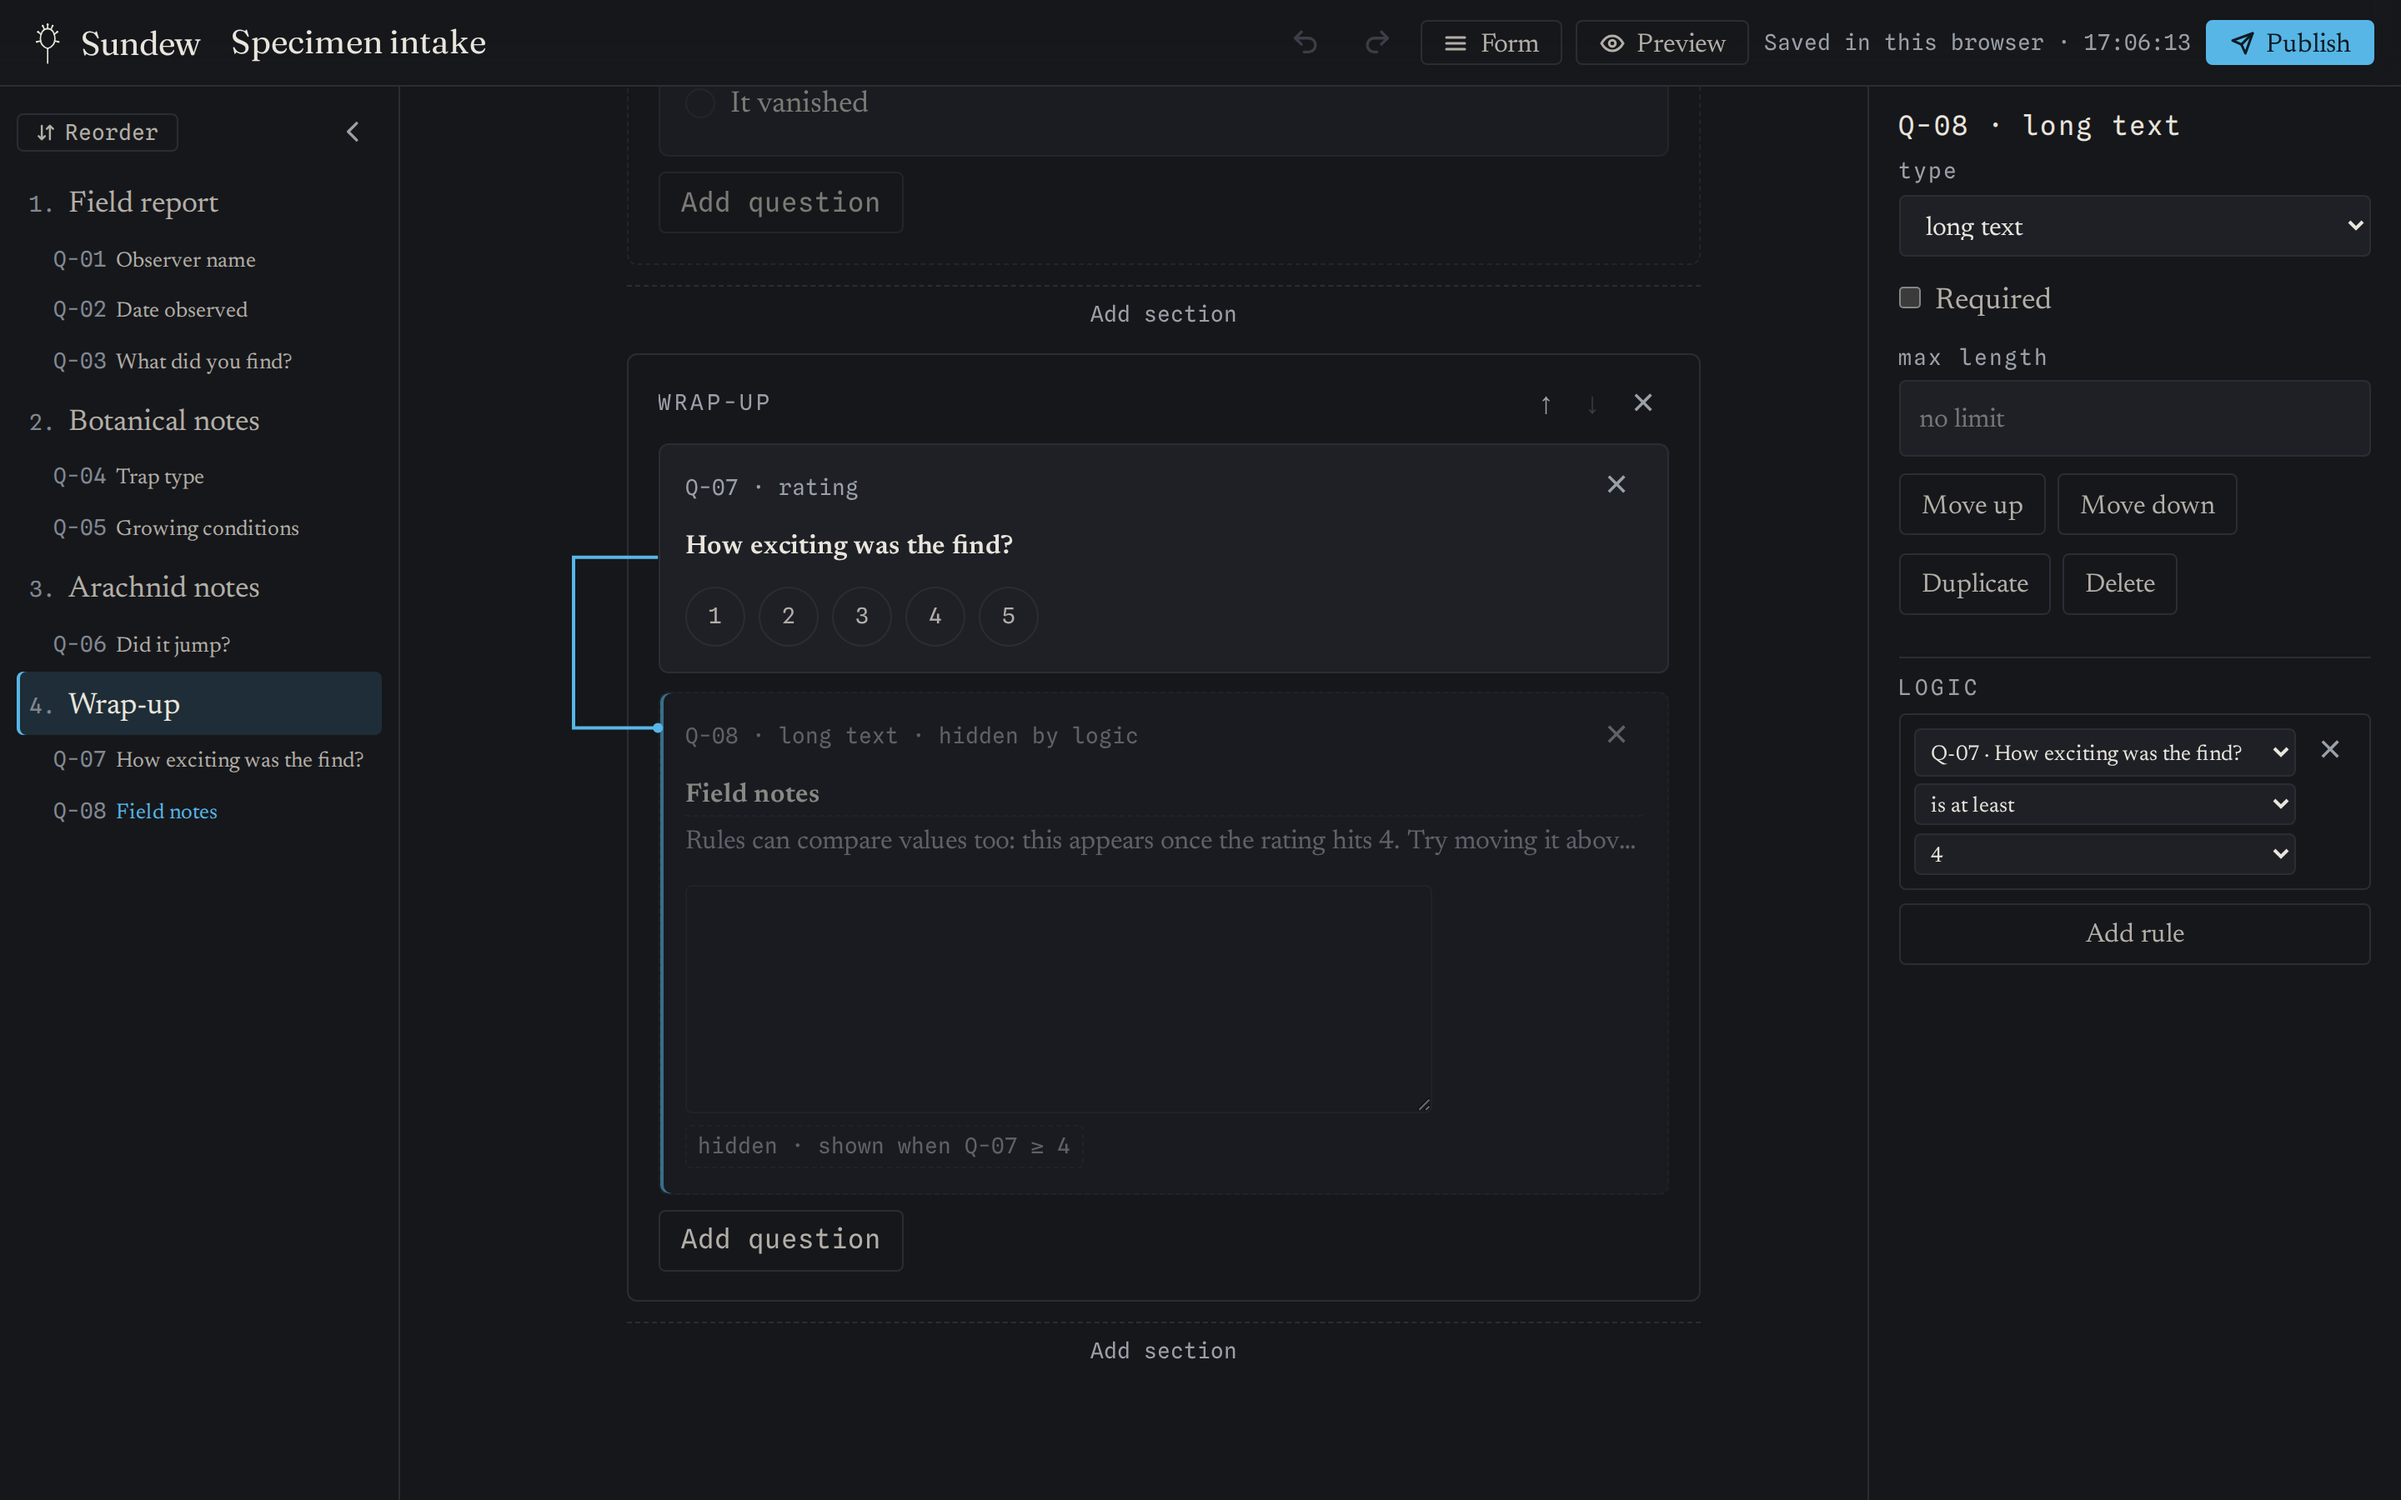
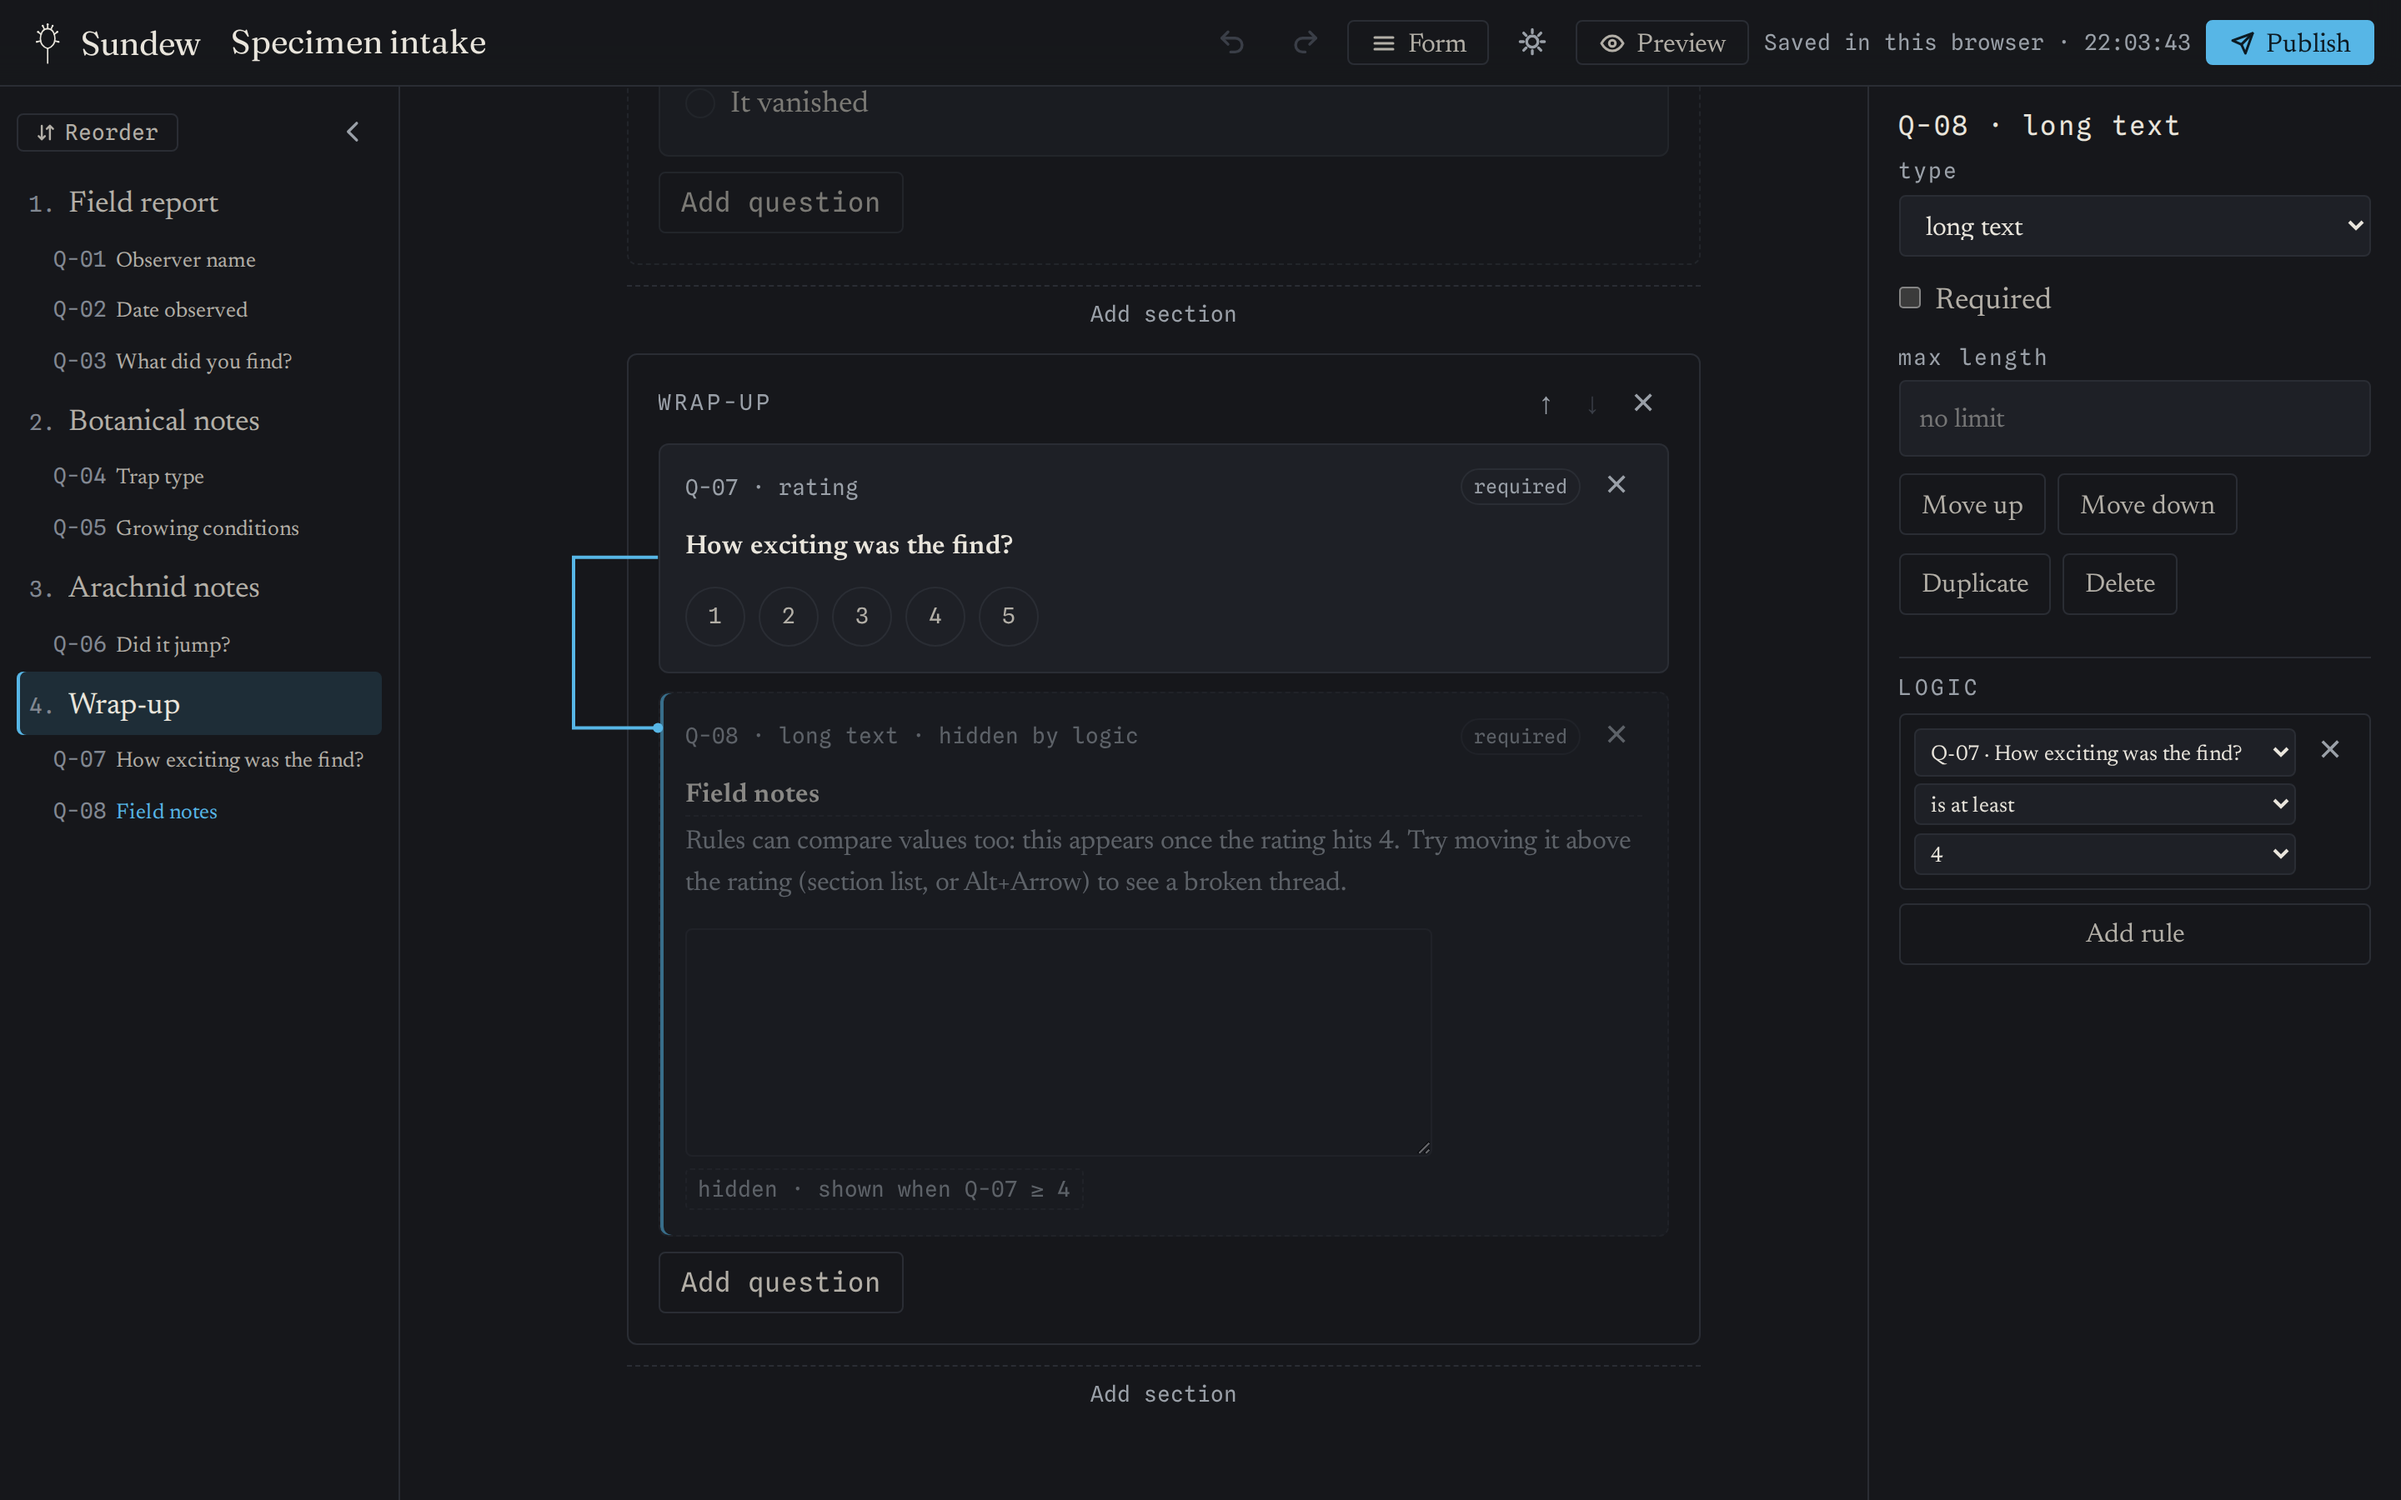
README: what's-in-the-box list, theme toggle reality, fresh screenshots

diff --git a/README.md b/README.md
@@ -14,6 +14,24 @@ running is in here.
 
 ![A published form on its share link: outline rail, conditional sections revealed as you answer](docs/fill.png)
 
+## What's in the box
+
+- **Builder** · drag-and-drop canvas that doubles as the live preview, undo/redo,
+  insert-a-question-anywhere dividers, duplicate form, a template gallery of four
+  starting points, and a keyboard-shortcut sheet on `?`.
+- **Logic** · answer choices reveal later questions and whole sections; one evaluator
+  runs in the builder preview, the fill page, and the server's submit validation.
+- **Validation** · required, number bounds, choice-count limits, placeholders, rating
+  end labels, and publish-time checks that name the offending question.
+- **Results** · an inbox that renders every response against the exact form version it
+  answered, CSV export, and a Summary tab of per-question charts (bars, histograms,
+  a response-timeline sparkline) aggregated server-side.
+- **Sharing** · publish to a share link with a QR code from a hand-rolled,
+  zero-dependency encoder — Reed-Solomon, mask scoring, the lot.
+- **Comfort** · light and dark themes with a no-flash toggle, autosave with an honest
+  save pill, styled confirm dialogs, loading skeletons, reduced-motion support
+  throughout.
+
 ## Why this exists
 
 I built a forms engine inside a large proprietary platform that I can't show anyone. Sundew
@@ -137,8 +155,9 @@ that signs in a local account, so publish → share link → fill → inbox is f
 offline. Real local OAuth, if you want it, is walked through in
 [DEPLOY.md](DEPLOY.md#local-oauth-optional).
 
-Tests: `npm test` (reducer, visibility evaluator, autosave machine, renderer, worker
-helpers) · `npm run e2e` (Playwright golden path against the local worker; run
+Tests: `npm test` (reducer, visibility evaluator, autosave machine, renderer, stats
+aggregator, QR encoder, worker helpers) · `npm run e2e` (Playwright golden path against
+the local worker; run
 `npx playwright install chromium` once first — and note e2e writes `E2E_AUTH_STUB=1`
 into your `.dev.vars`).
 
@@ -182,11 +201,11 @@ a commented-out `routes` block for serving under your own domain. Secrets go thr
 `src/app/styles/tokens.css` — a light `:root` block, a dark `:root.theme-dark` block,
 and semantic `--sd-*` aliases the components consume. No other file hardcodes a color,
 except `public/favicon.svg`, which carries its own copy of the accent.
-Dark is the shipped default via `class="theme-dark"` on the `<html>` element in
-`index.html`; delete the class to go light, or wire a toggle that flips it on
-`document.documentElement` — the palette on the other side is already built. Fonts are
-self-hosted OFL subsets in `public/fonts/` + `src/app/styles/fonts.css` (mind the
-Newsreader metric overrides there if you swap faces).
+Dark is the shipped default; the built-in toggle (top bar, footer, fill page) flips to
+light and persists the choice, which an inline script in `index.html` applies before
+first paint. To ship light as the default instead, flip the comparison in that script.
+Fonts are self-hosted OFL subsets in `public/fonts/` + `src/app/styles/fonts.css` (mind
+the Newsreader metric overrides there if you swap faces).
 
 **Renaming it** touches: `BASE_TITLE` in `src/app/router.tsx`, the title and meta
 description in `index.html`, the wordmark in the top bar and footer copy, the seed demo
